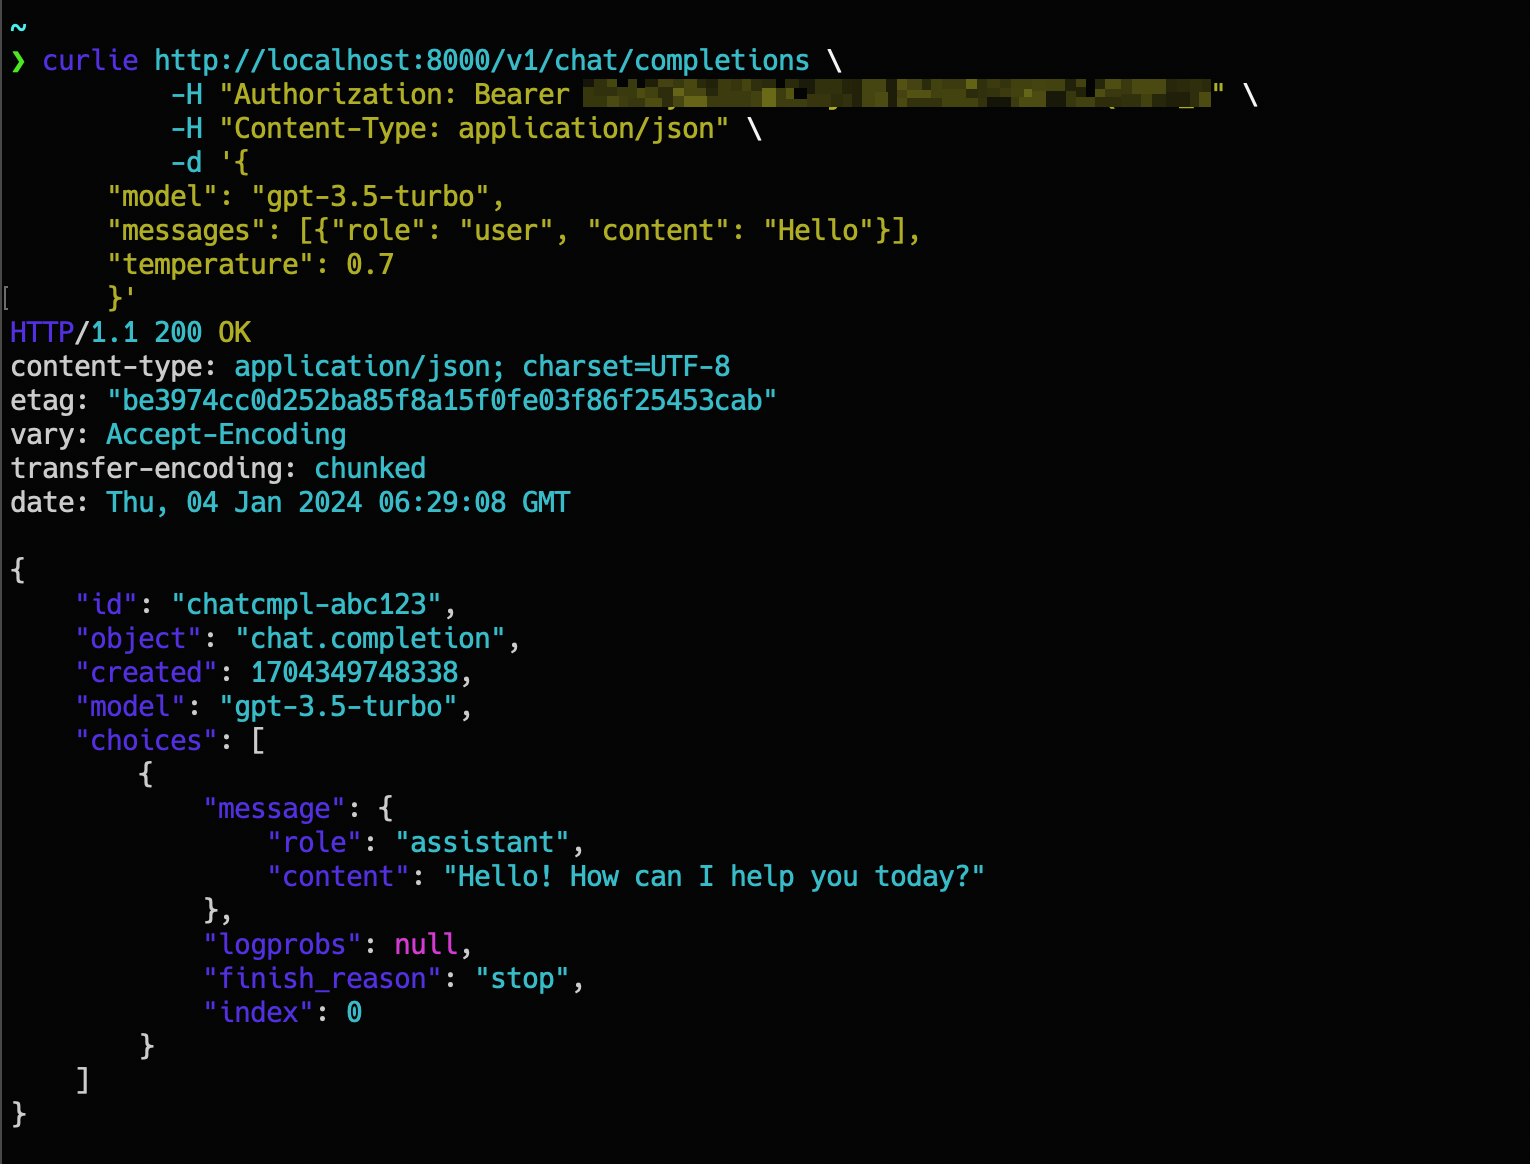
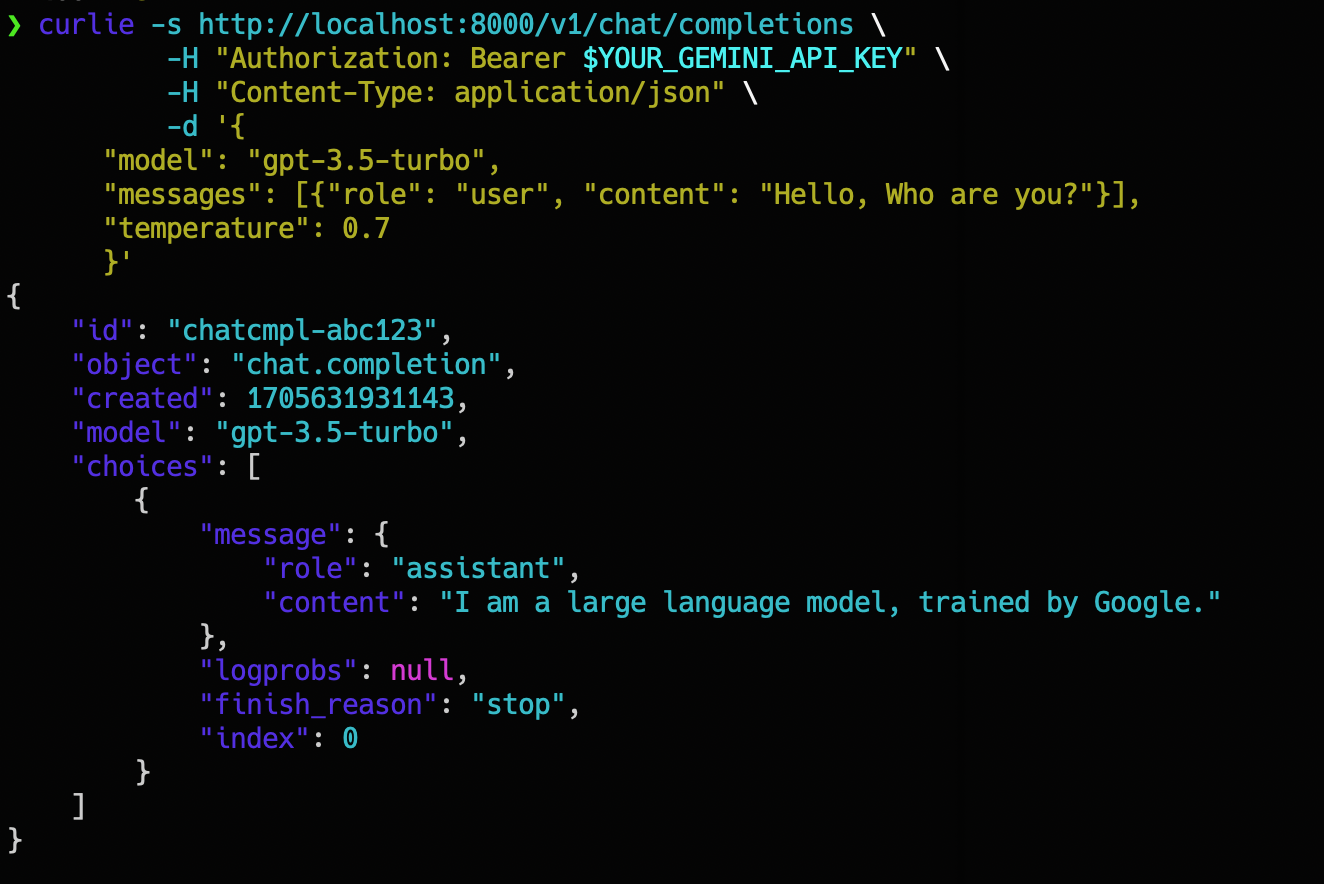
update readme

diff --git a/readme.md b/readme.md
@@ -12,16 +12,15 @@ complex development work.
 ## Demo
 
 ```shell
-curl http://localhost:8000/v1/chat/completions \
-    -H "Authorization: Bearer $YOUR_GEMINI_API_KEY" \
-    -H "Content-Type: application/json" \
-    -d '{
-    "model": "gpt-3.5-turbo",
-    "messages": [{"role": "user", "content": "Hello"}],
-    "temperature": 0.7
-    }'
+curl -s http://localhost:8000/v1/chat/completions \
+  -H "Authorization: Bearer $YOUR_GEMINI_API_KEY" \
+  -H "Content-Type: application/json" \
+  -d '{
+      "model": "gpt-3.5-turbo",
+      "messages": [{"role": "user", "content": "Hello, Who are you?"}],
+      "temperature": 0.7
+      }'
 ```
-
 ![demo](./assets/demo.png)
 
 ## Plan
